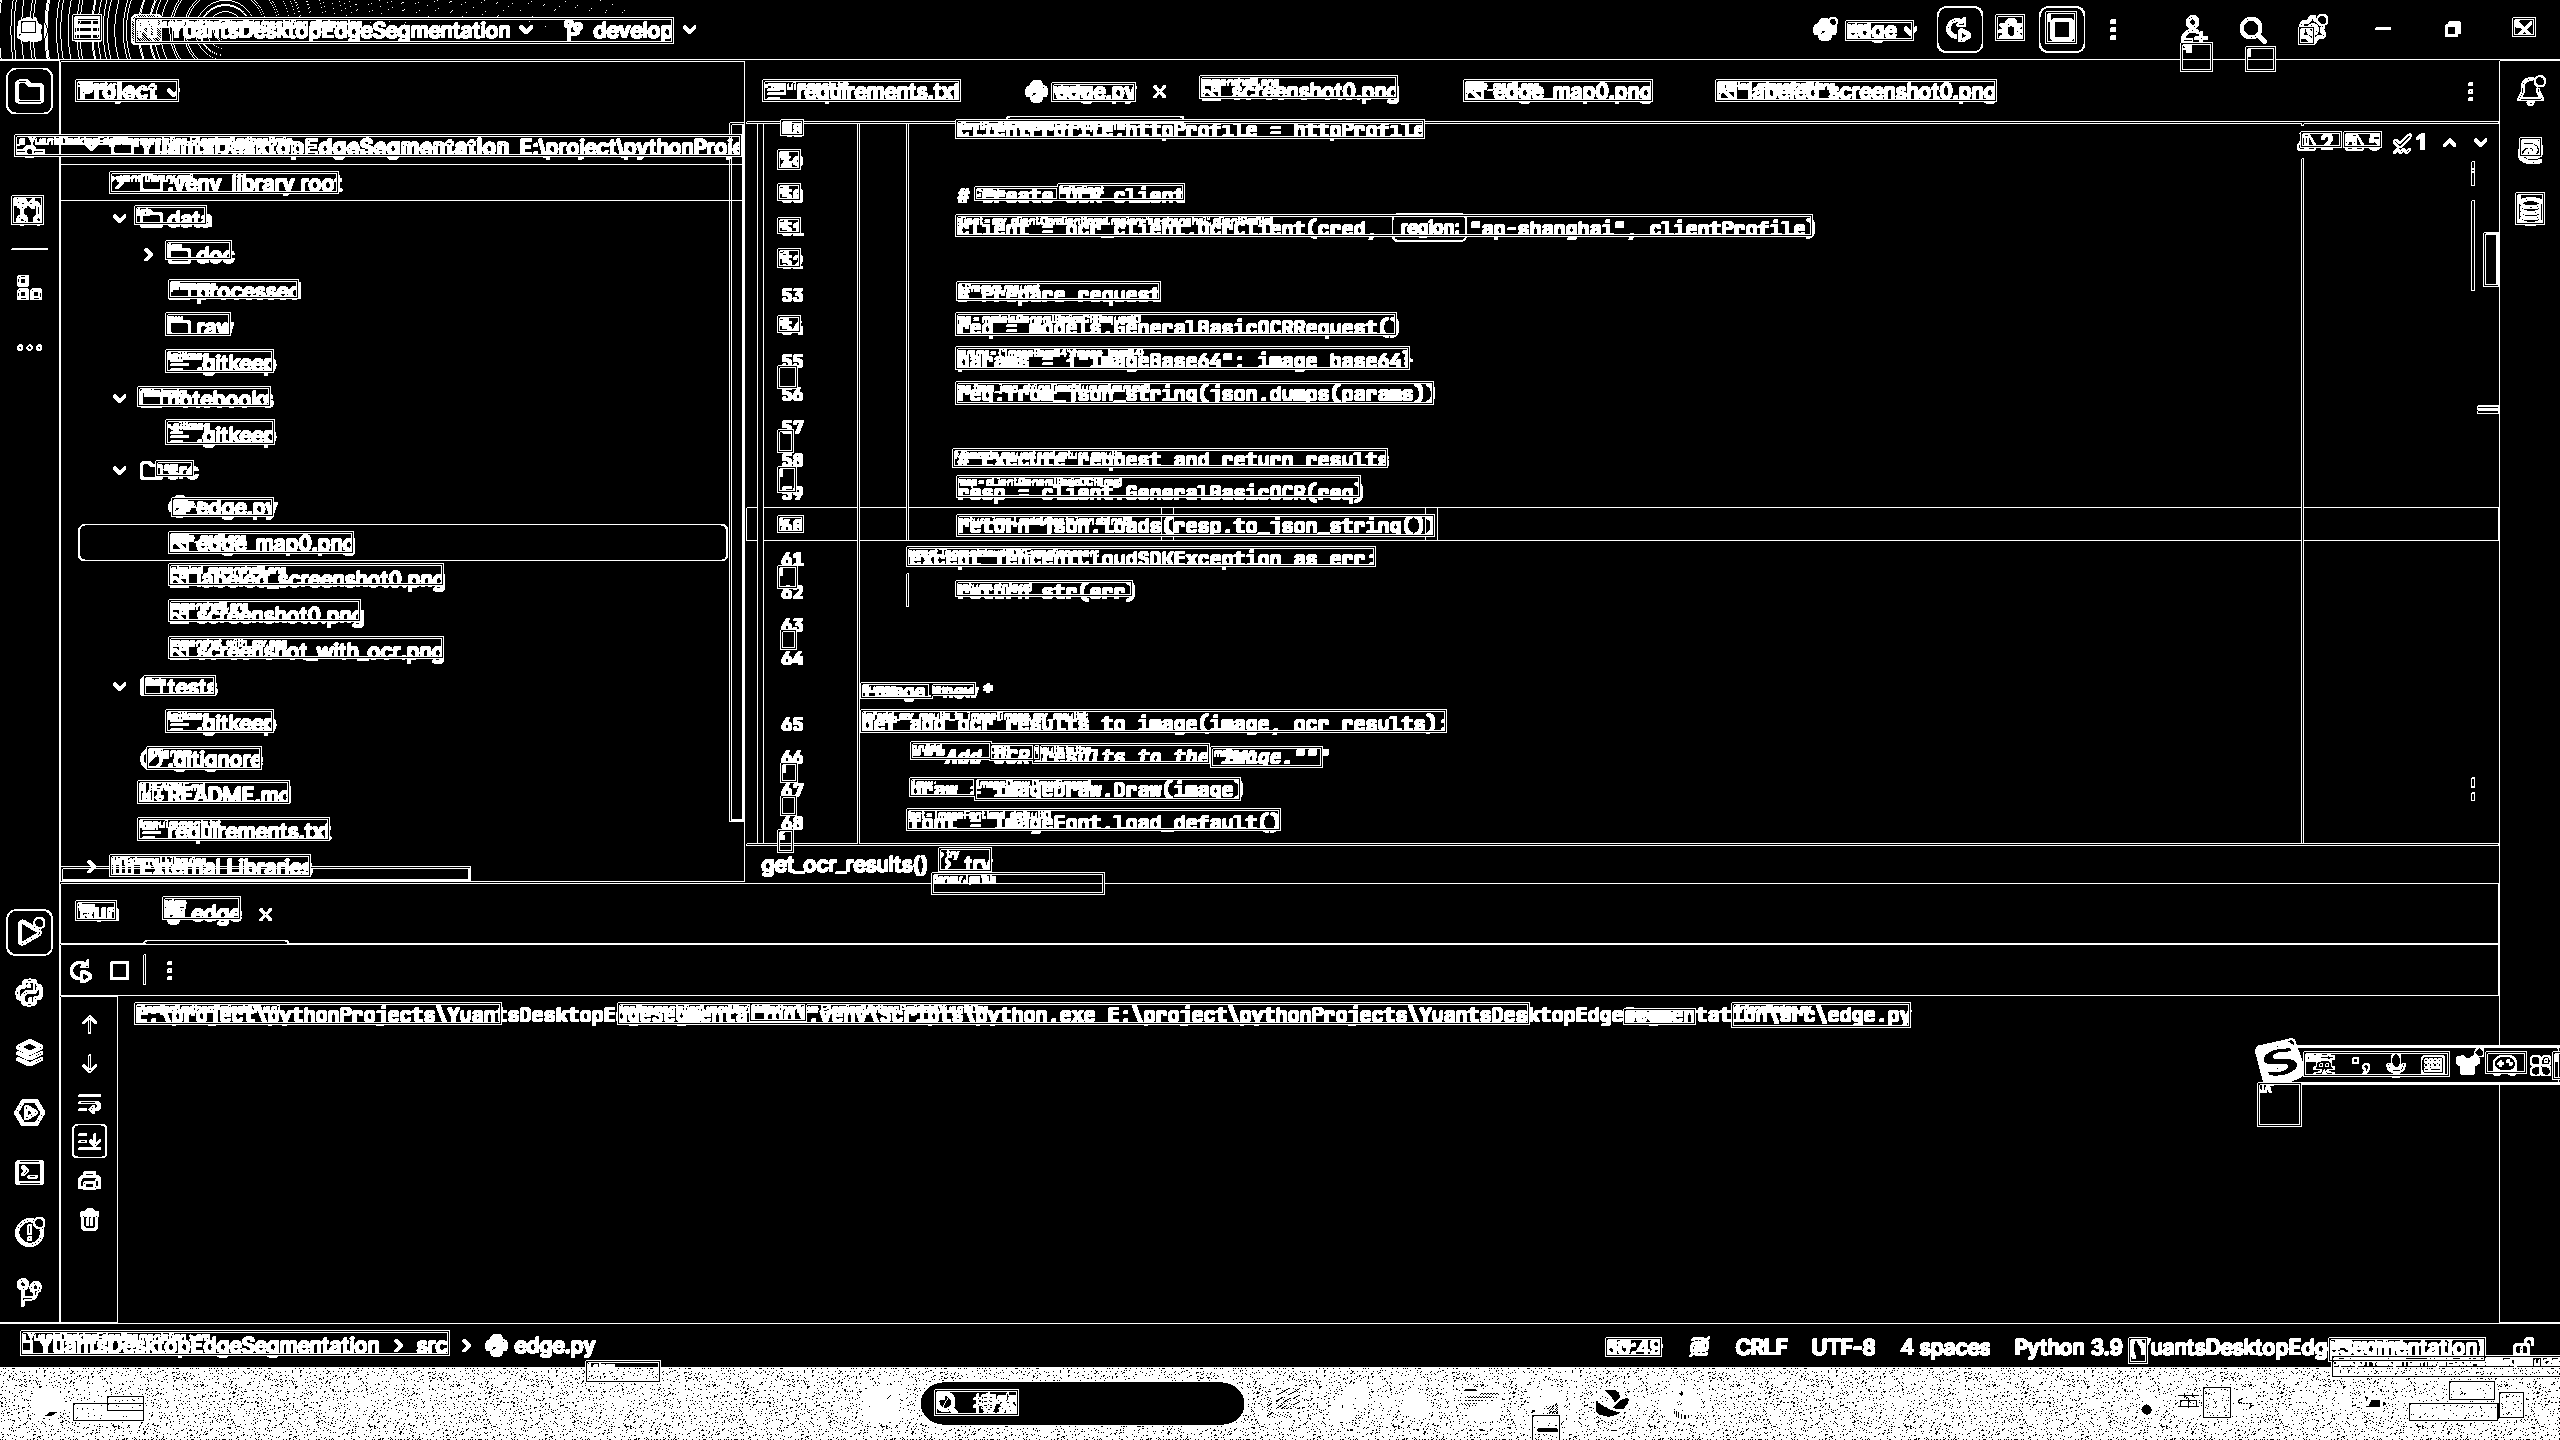
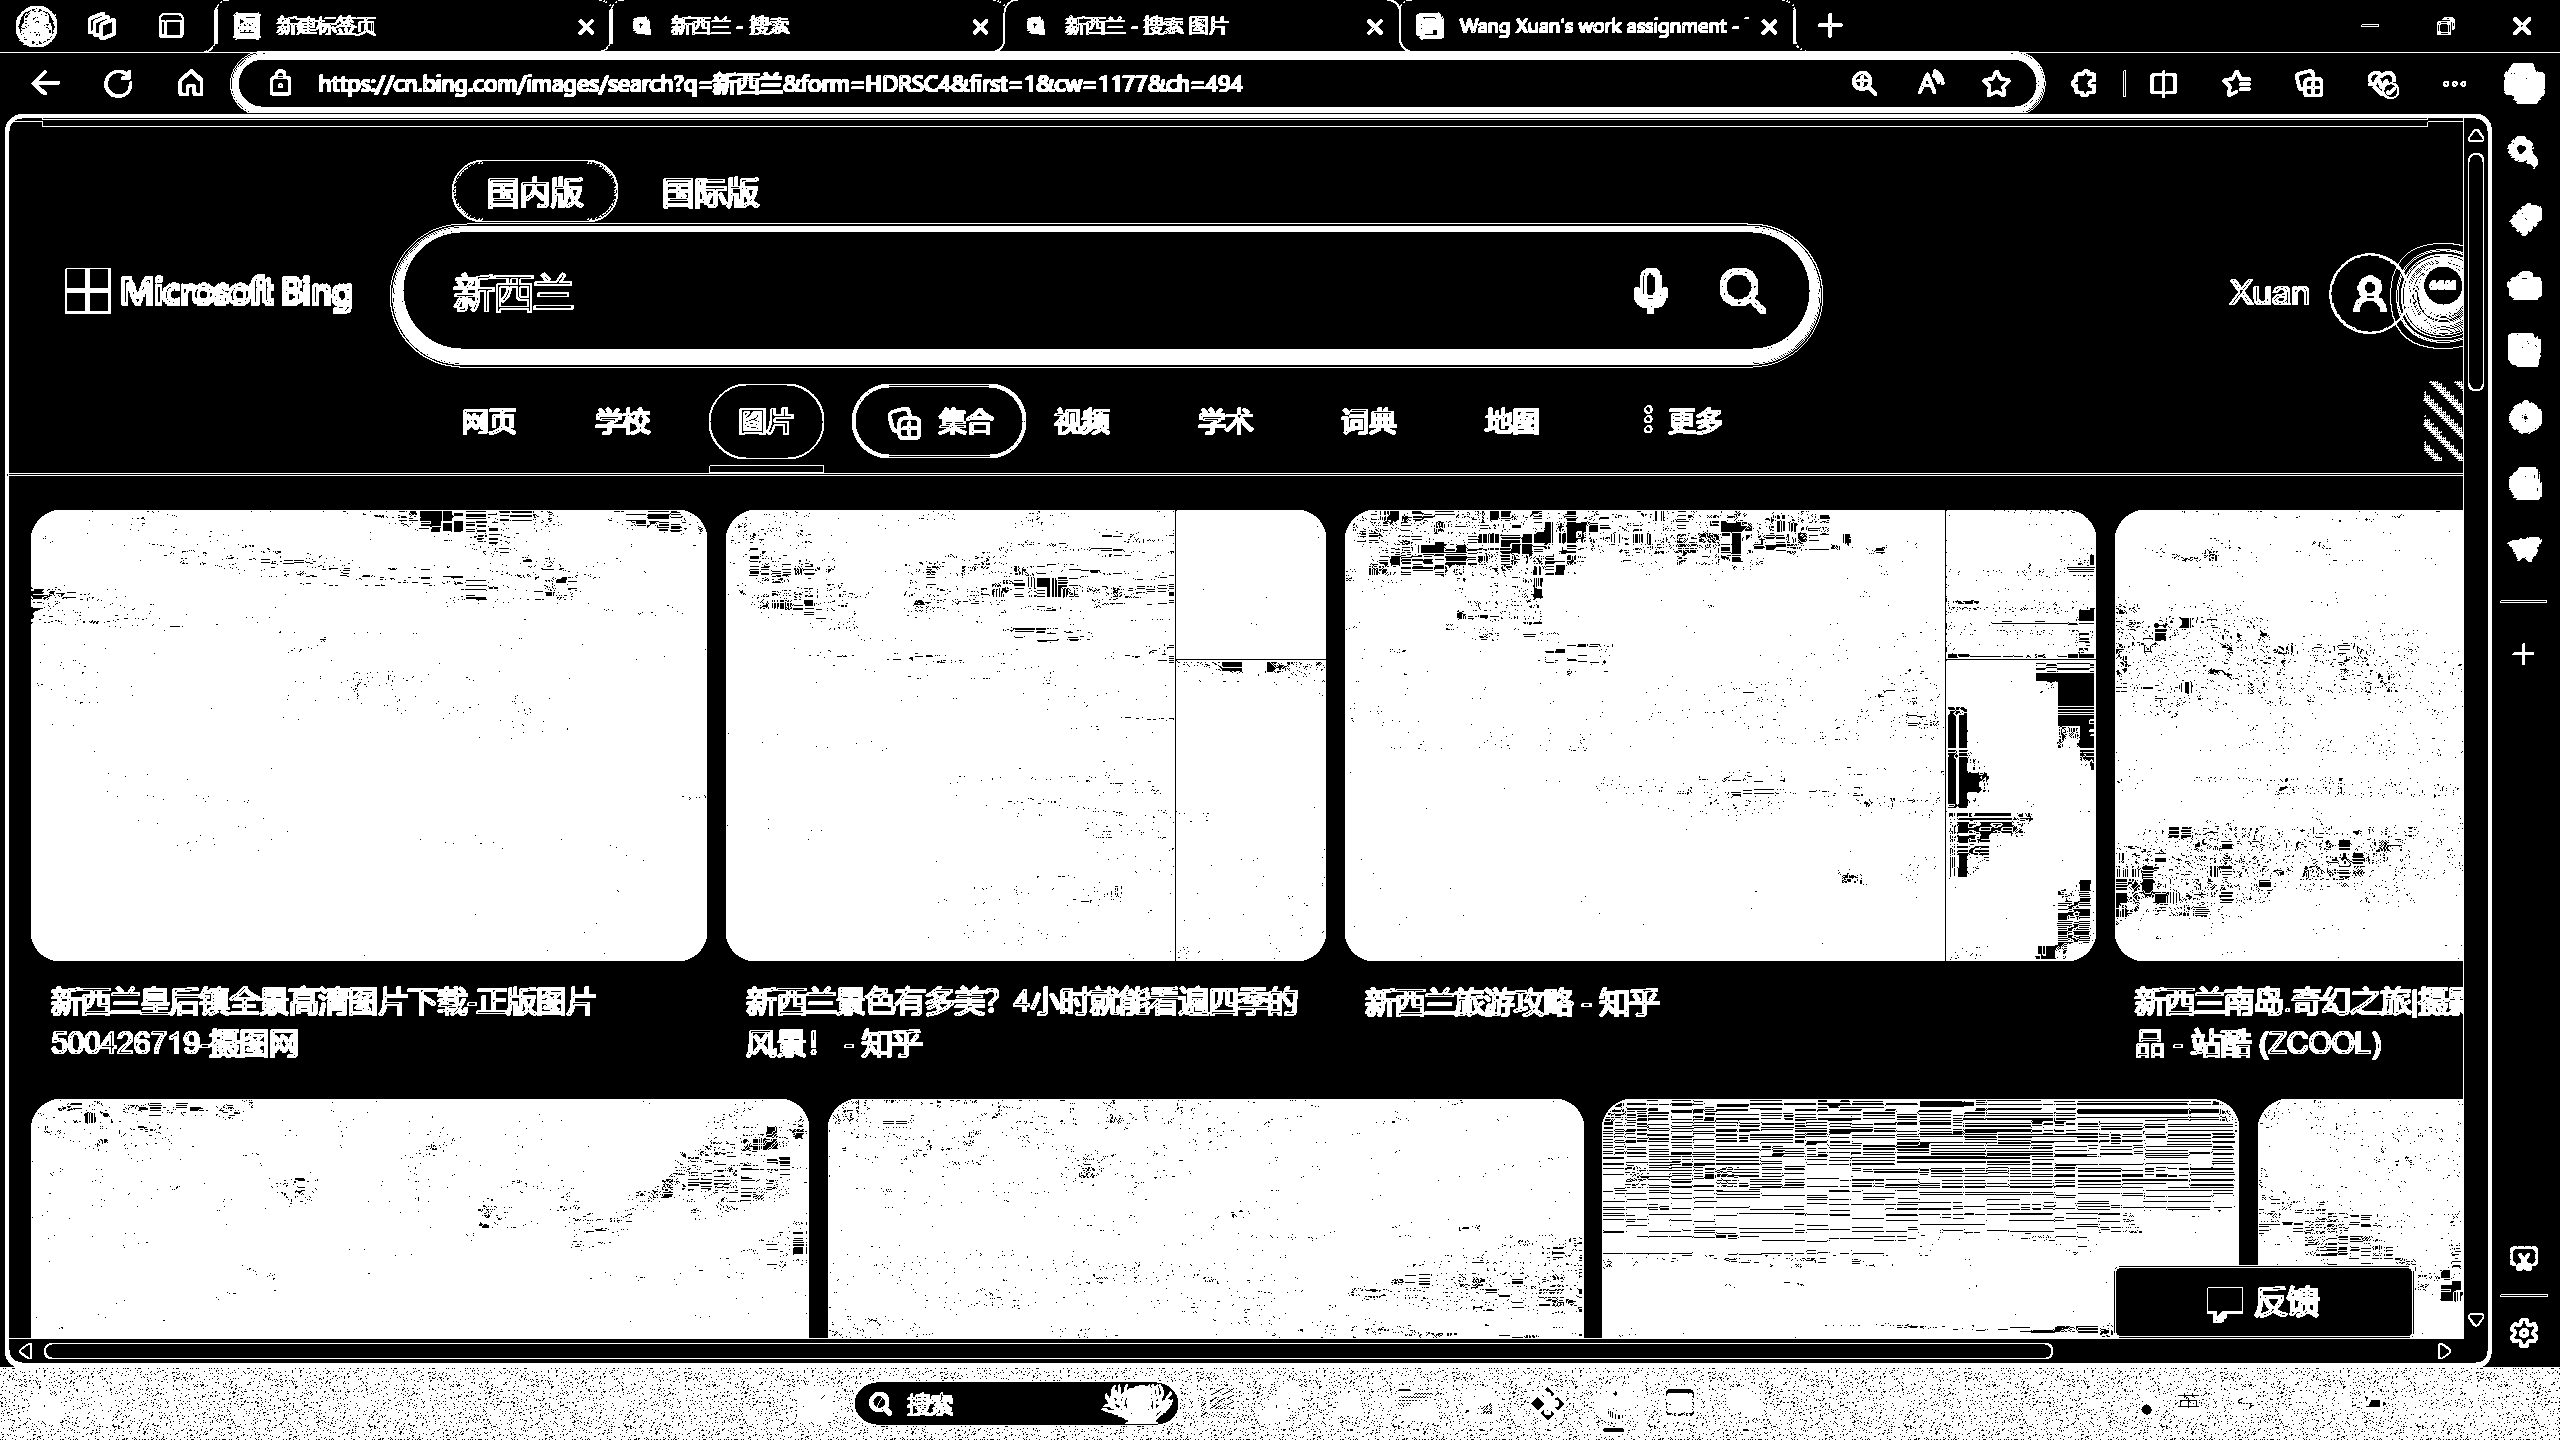
fix: The text recognition function is complete. Algorithm optimization.

diff --git a/src/edge.py b/src/edge.py
@@ -77,10 +77,9 @@ def add_ocr_results_to_image(image, ocr_results):
             height = item_polygon.get('Height', 0)
 
             # Draw bounding box
-            draw.rectangle([x, y, x + width, y + height], outline="red", width=2)
-
-            # Draw text within the bounding box
-            draw.text((x, y), text, fill="red", font=font)
+            draw.rectangle([x, y, x + width, y + height], outline="blue", width=2)
+            # # Draw text within the bounding box
+            # draw.text((x, y), text, fill="red", font=font)
 
     return image
 
@@ -213,7 +212,7 @@ def classify_edge_positions(edge_positions):
     if max_y is None:
         return []
 
-    text_icon_positions = []
+    # text_icon_positions = []
     straight_line_positions = set()
     irregular_large_positions = []
 
@@ -233,7 +232,7 @@ def classify_edge_positions(edge_positions):
                 area = len(component_pixels)
                 aspect_ratio = width / height
                 total_pixels = len(edge_positions)
-                area_threshold = total_pixels / 20
+                area_threshold = total_pixels / 23
 
                 # Calculate bounding box area
                 bounding_box_area = width * height
@@ -244,19 +243,19 @@ def classify_edge_positions(edge_positions):
                     if 0.3 <= aspect_ratio <= 3:
                         irregular_large_positions.extend(component_pixels)
 
-                if (0.3 <= aspect_ratio <= 20) and (10 <= area <= 5000):
-                    if area / bounding_box_area >= 0.25:
-                        text_icon_positions.extend(component_pixels)
+                # if (0.3 <= aspect_ratio <= 20) and (10 <= area <= 5000):
+                #     if area / bounding_box_area >= 0.25:
+                #         text_icon_positions.extend(component_pixels)
 
                 else:
-                    if 0 < area / bounding_box_area <= 0.2 and area >= 2000:
+                    if 0 < area / bounding_box_area <= 0.3 and area >= 2000:
                         segments = split_into_segments(component_pixels)
                         for segment in segments:
                             if is_straight_line(segment, direction='horizontal') or is_straight_line(segment,
                                                                                                      direction='vertical'):
                                 straight_line_positions.update(segment)
 
-    return text_icon_positions, list(straight_line_positions), irregular_large_positions
+    return list(straight_line_positions), irregular_large_positions
 
 
 def extract_text_and_icons(input_img, text_icon_positions):
@@ -373,6 +372,34 @@ def merge_info(edge_info, new_text_icon_info, straight_lines_info, red_boxes_inf
     return merged_info
 
 
+def merge_info2(screenshot, straight_lines_info, red_boxes_info):
+    # 将所有像素信息转换为字典，方便查找
+    straight_lines_dict = {pos: color for pos, color in straight_lines_info}
+    red_boxes_dict = {pos: color for pos, color in red_boxes_info}
+
+    # 创建集合用于快速查找
+    straight_lines_set = set(straight_lines_dict.keys())
+    red_boxes_set = set(red_boxes_dict.keys())
+
+    # 获取图像的像素数据
+    pixels = screenshot.load()
+    width, height = screenshot.size
+
+    for y in range(height):
+        for x in range(width):
+            pos = (y, x)
+            if pos in red_boxes_set:
+                new_color = red_boxes_dict[pos]
+            elif pos in straight_lines_set:
+                new_color = straight_lines_dict[pos]
+            else:
+                new_color = pixels[x, y]  # 保持原始颜色
+
+            pixels[x, y] = new_color
+
+    return screenshot
+
+
 def save_image(data, filename):
     # Use PIL to save the binary image
     img = Image.fromarray(data * 255)  # Convert binary data to a format suitable for saving
@@ -402,17 +429,21 @@ def save_visualization_image(merged_info, filename):
     img.save(filename)
 
 
+def save_visualization_image2(image, filename):
+    """
+    Save the modified image to a file.
+
+    :param image: Image object with merged information
+    :param filename: Filename to save the image
+    """
+    # 直接保存传入的 Image 对象
+    image.save(filename)
+
+
 def main():
     # Step 1: Capture the screen
     screenshot = capture_screen()
     print("Screenshot saved as 'screenshot0.png'")
-
-    ocr_results = get_ocr_results(screenshot)
-    print(ocr_results)
-    image_with_ocr = add_ocr_results_to_image(screenshot, ocr_results)
-    output_path = "screenshot_with_ocr.png"
-    image_with_ocr.save(output_path)
-    print(f"OCR results added to image and saved as {output_path}")
 
     # Step 2: Convert screenshot to edge map and get the position of edged elements
     edge_map, edge_positions = simple_difference_edge_detection(screenshot)
@@ -421,26 +452,34 @@ def main():
     save_image(edge_map, 'edge_map0.png')
     print("Edge map saved as 'edge_map0.png'")
 
-    # Step 4: classify the type of edged elements
-    text_icon_positions, straight_line_positions, irregular_large_positions = classify_edge_positions(edge_positions)
+    # Step 4: Extract text and save as
+    ocr_results = get_ocr_results(screenshot)
+    print(ocr_results)
+    image_with_ocr = add_ocr_results_to_image(screenshot, ocr_results)
+    output_path = "screenshot_with_ocr.png"
+    image_with_ocr.save(output_path)
+    print(f"OCR results added to image and saved as {output_path}")
 
-    # Step 5: extract text and icons
-    new_text_icon_info = extract_text_and_icons(screenshot, text_icon_positions)
+    # Step 5: classify the type of edged elements
+    straight_line_positions, irregular_large_positions = classify_edge_positions(edge_positions)
 
-    # Step 6: add label to straight lines
+    # # Step 5: extract text and icons
+    # new_text_icon_info = extract_text_and_icons(screenshot, text_icon_positions)
+
+    # Step 7: add label to straight lines
     straight_lines_info = add_label_to_straight_lines_info(straight_line_positions)
 
-    # Step 7: label natural pics
+    # Step 8: label natural pics
     red_boxes_info = add_label_boxes_info(irregular_large_positions)
 
     # Step 8: get edge_map info
     edge_info = edge_map_to_info(edge_map)
 
     # Step 9: merge 4 info and get pic
-    merged_info = merge_info(edge_info, new_text_icon_info, straight_lines_info, red_boxes_info)
+    merged_info = merge_info2(screenshot, straight_lines_info, red_boxes_info)
 
     # Step 10: Save merged_info as a visualization image
-    save_visualization_image(merged_info, "labeled_screenshot0.png")
+    save_visualization_image2(merged_info, "labeled_screenshot0.png")
     print("Merged info saved as 'labeled_screenshot0.png'")
 
 

diff --git a/tests/image_identification_test.py b/tests/image_identification_test.py
@@ -1,0 +1,48 @@
+import time
+
+import cv2
+import numpy as np
+from PIL import ImageGrab
+
+time.sleep(3)
+# 截取屏幕
+screenshot = ImageGrab.grab()
+screenshot = np.array(screenshot)
+
+# 转换为BGR格式（OpenCV使用的格式）
+screenshot = cv2.cvtColor(screenshot, cv2.COLOR_RGB2BGR)
+
+# 读取已知图片列表
+templates = ['images/image3.png', 'images/image4.png']
+
+# 转换已知图片为灰度图
+gray_screenshot = cv2.cvtColor(screenshot, cv2.COLOR_BGR2GRAY)
+gray_templates = [cv2.cvtColor(cv2.imread(template), cv2.COLOR_BGR2GRAY) for template in templates]
+
+# 定义一个函数来执行模板匹配
+def find_template_positions(screenshot, template, threshold=0.5):
+    result = cv2.matchTemplate(screenshot, template, cv2.TM_CCOEFF_NORMED)
+    loc = np.where(result >= threshold)
+    positions = []
+    for pt in zip(*loc[::-1]):
+        positions.append((pt[0], pt[1], pt[0] + template.shape[1], pt[1] + template.shape[0]))
+    return positions
+
+# 记录所有匹配的位置
+all_positions = []
+
+for gray_template in gray_templates:
+    positions = find_template_positions(gray_screenshot, gray_template)
+    all_positions.extend(positions)
+
+# 在截屏上绘制所有匹配的位置
+for (x1, y1, x2, y2) in all_positions:
+    cv2.rectangle(screenshot, (x1, y1), (x2, y2), (0, 0, 255), 2)
+
+
+# 保存结果图像
+cv2.imwrite('result_screenshot.jpg', screenshot)
+
+# 输出匹配的位置信息
+for position in all_positions:
+    print(f"Image found at: {position}")

diff --git a/tests/line_identification_test.py b/tests/line_identification_test.py
@@ -1,0 +1,43 @@
+import cv2
+import numpy as np
+
+from sklearn.linear_model import RANSACRegressor
+from PIL import ImageGrab
+
+# 截取屏幕图像
+bbox = (100, 100, 800, 600)  # 根据需要调整截屏区域
+screen = ImageGrab.grab(bbox)
+screen_np = np.array(screen)
+
+# 转换颜色格式以便使用cv2
+screen_np = cv2.cvtColor(screen_np, cv2.COLOR_RGB2BGR)
+
+# 保存截屏图像
+cv2.imwrite('screenshot.jpg', screen_np)
+
+# 使用截屏图像进行处理
+gray = cv2.cvtColor(screen_np, cv2.COLOR_BGR2GRAY)
+
+# 边缘检测
+edges = cv2.Canny(gray, 50, 150, apertureSize=3)
+
+# 提取边缘点
+points = np.column_stack(np.where(edges > 0))
+
+# 使用RANSAC拟合直线
+ransac = RANSACRegressor()
+ransac.fit(points[:, 1].reshape(-1, 1), points[:, 0])
+
+# 获取直线参数
+slope = ransac.estimator_.coef_[0]
+intercept = ransac.estimator_.intercept_
+
+# 绘制直线
+x = np.array([0, screen_np.shape[1]])
+y = slope * x + intercept
+cv2.line(screen_np, (x[0], int(y[0])), (x[1], int(y[1])), (0, 0, 255), 2)
+
+
+
+# 保存处理后的截屏图像
+cv2.imwrite('processed_screenshot.jpg', screen_np)
